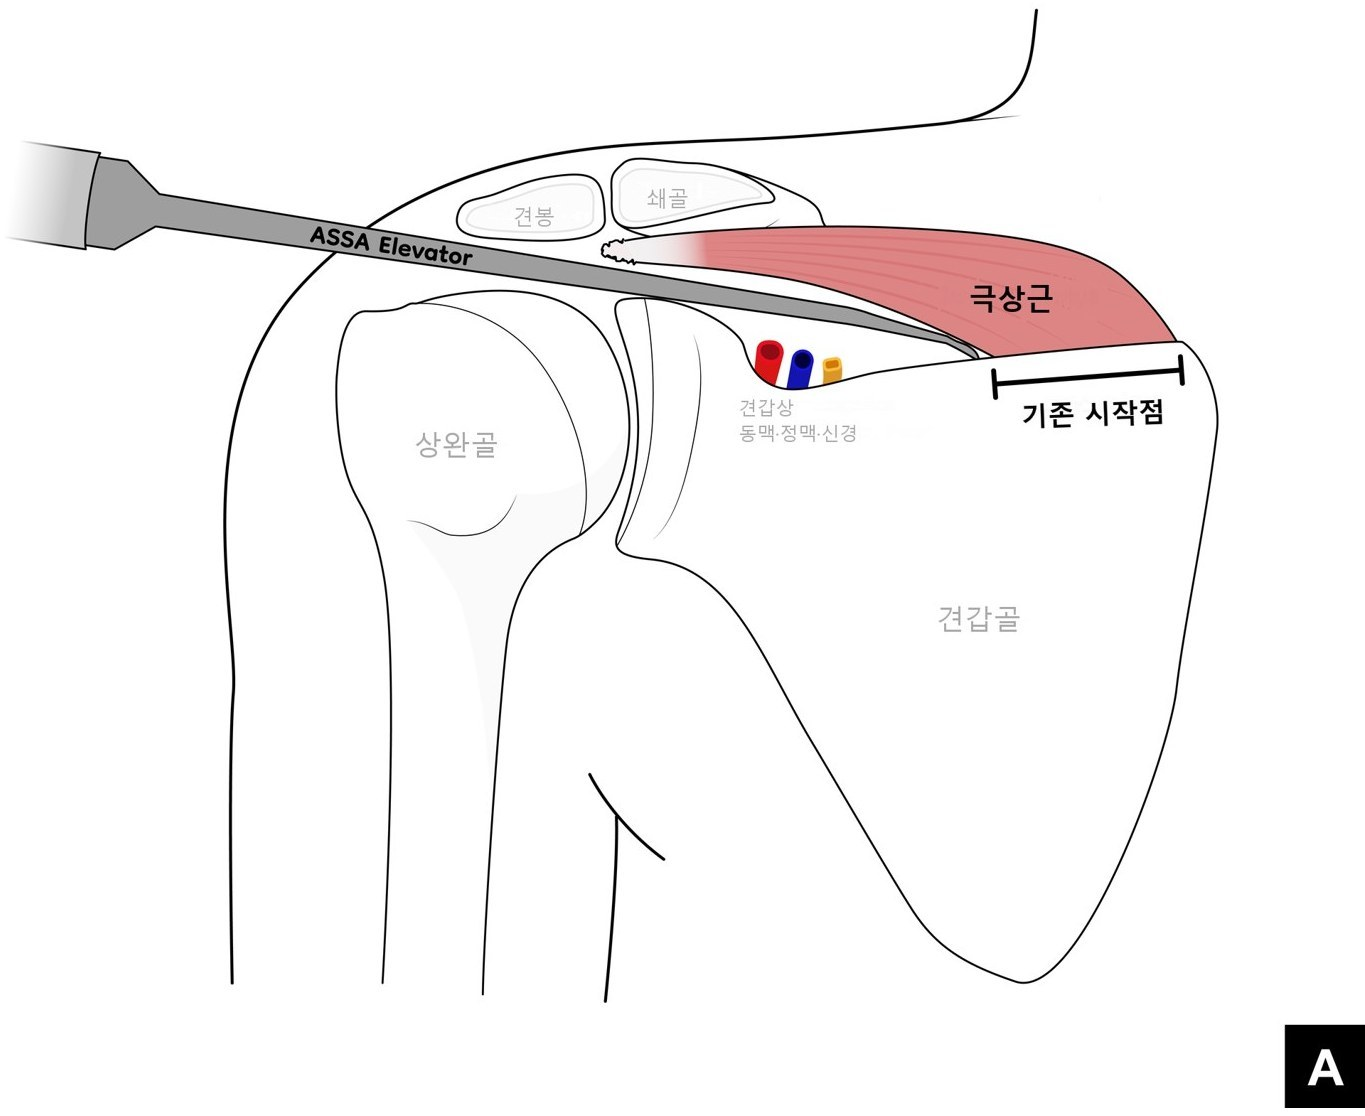
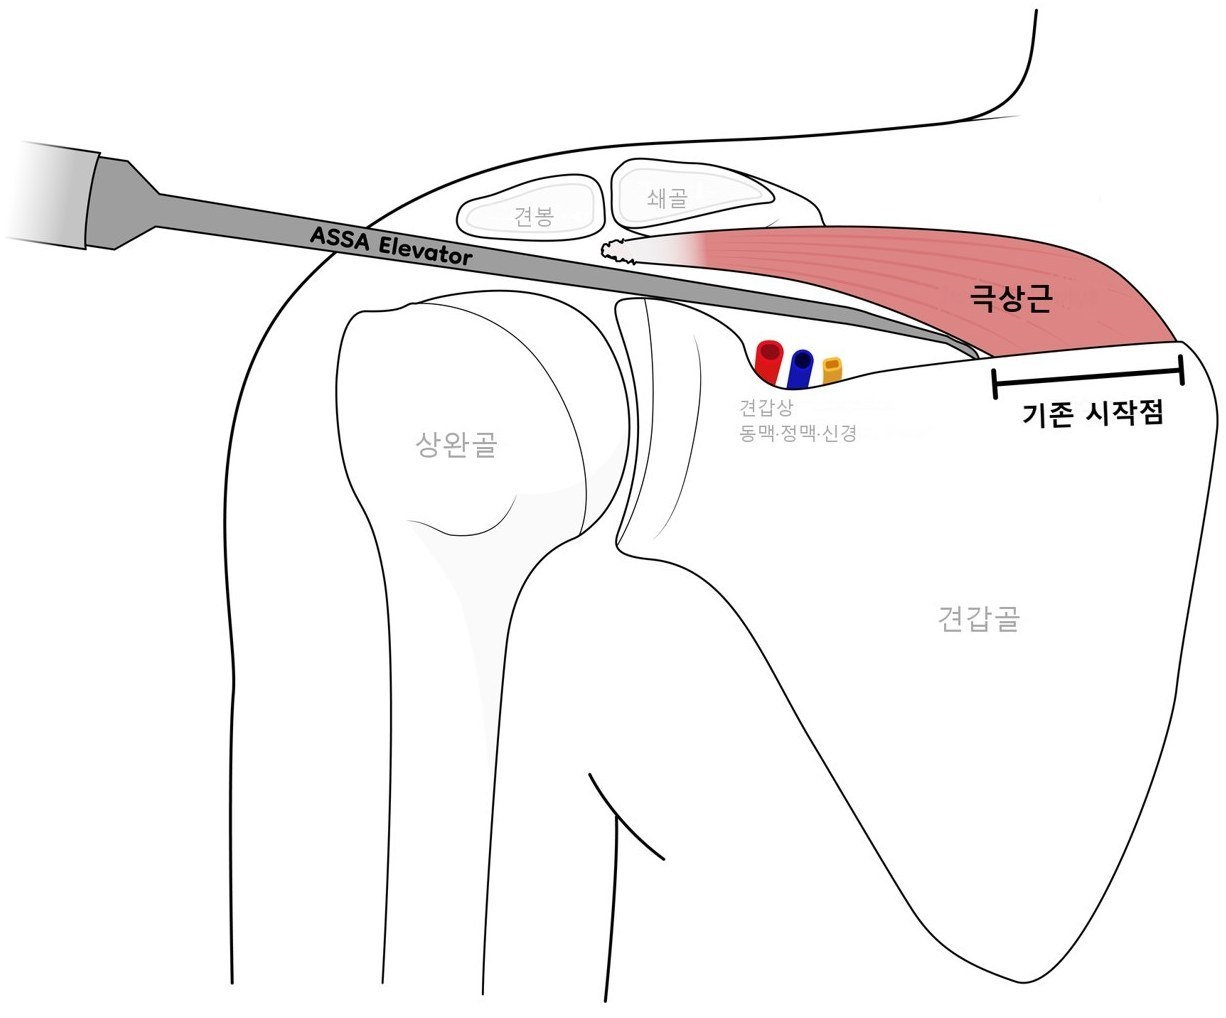
feat: ASSA 슬라이드 — A·B·C 버튼 박스 밖 우측 상단, 컷 안 검은 문자 박스 제거, 설명은 박스 안 그림 아래 녹색 큰 글씨

diff --git a/index.html b/index.html
@@ -57,13 +57,14 @@ tr:last-child td,tr:last-child th{border-bottom:0}
 .faq p{margin-top:8px;font-size:15px}
 footer{padding:24px 20px 40px;font-size:13px;color:var(--muted);text-align:center;border-top:1px solid var(--line);background:#fff}
 .btn{display:block;text-align:center;background:var(--navy);color:#fff;text-decoration:none;padding:14px;border-radius:12px;font-weight:600;margin-top:16px}
-.assa{position:relative}
-.assa .slides{display:grid;background:#fff;border:1px solid var(--line);border-radius:14px;padding:3px;touch-action:pan-y}
-.assa .slides img{grid-area:1/1;width:100%;height:auto;display:block;border-radius:8px;opacity:0;transition:opacity .6s ease}
-.assa .slides img.on{opacity:1}
-.assa .dots{position:absolute;top:10px;right:10px;display:flex;gap:6px;z-index:2}
-.assa .dots button{width:28px;height:28px;border-radius:50%;border:1px solid var(--line);background:rgba(255,255,255,.92);color:var(--muted);font-weight:700;font-size:13px;padding:0;cursor:pointer}
+.assa .dots{display:flex;justify-content:flex-end;gap:6px;margin-bottom:8px}
+.assa .dots button{width:30px;height:30px;border-radius:50%;border:1px solid var(--line);background:#fff;color:var(--muted);font-weight:700;font-size:13px;padding:0;cursor:pointer}
 .assa .dots button.on{background:var(--teal);border-color:var(--teal);color:#fff}
+.assa .box{background:#fff;border:1px solid var(--line);border-radius:14px;padding:3px}
+.assa .slides{display:grid;touch-action:pan-y}
+.assa .slides img{grid-area:1/1;width:100%;height:auto;display:block;border-radius:10px;opacity:0;transition:opacity .6s ease}
+.assa .slides img.on{opacity:1}
+.assa figcaption{font-size:18px;font-weight:600;color:var(--teal);text-align:left;line-height:1.5;padding:10px 12px 9px;margin:0}
 @media(prefers-reduced-motion:reduce){html{scroll-behavior:auto}.assa .slides img{transition:none}}
 </style>
 </head>
@@ -112,13 +113,15 @@ footer{padding:24px 20px 40px;font-size:13px;color:var(--muted);text-align:cente
   <h2>• 극상근 전진술 (ASSA)</h2>
   <p class="lead">힘줄을 억지로 잡아당기는 대신, <b>근육을 어깨뼈 바닥에서 통째로 들어 올려 앞으로 옮겨</b> 힘줄이 원래 자리에 닿게 하는 관절경 수술입니다.</p>
   <figure class="assa">
-    <div class="slides" id="assaSlides">
-      <img src="img/assa-a.jpg" class="on" alt="A. 기존 외측 삽입구로 전용 기구를 넣는 그림" data-cap="A · 기존 외측 삽입구로 전용 기구를 넣습니다 (추가 절개 불필요)">
-      <img src="img/assa-b.jpg" alt="B. 전용 기구가 극상근을 날개뼈 부착점에서 들어 올리는 그림" data-cap="B · 전용 기구로 극상근을 부착점에서 부드럽게 들어 올립니다">
-      <img src="img/assa-c.jpg" alt="C. 자유로워진 근육과 힘줄을 바깥쪽으로 옮긴 그림" data-cap="C · 자유로워진 근육과 힘줄을 바깥쪽으로 옮깁니다">
-    </div>
     <div class="dots" id="assaDots" role="tablist" aria-label="그림 단계"><button class="on" aria-label="A">A</button><button aria-label="B">B</button><button aria-label="C">C</button></div>
-    <figcaption id="assaCap">A · 기존 외측 삽입구로 전용 기구를 넣습니다 (추가 절개 불필요)</figcaption>
+    <div class="box">
+      <div class="slides" id="assaSlides">
+        <img src="img/assa-a.jpg" class="on" alt="A. 기존 외측 삽입구로 전용 기구를 넣는 그림" data-cap="A · 기존 외측 삽입구로 전용 기구를 넣습니다 (추가 절개 불필요)">
+        <img src="img/assa-b.jpg" alt="B. 전용 기구가 극상근을 날개뼈 부착점에서 들어 올리는 그림" data-cap="B · 전용 기구로 극상근을 부착점에서 부드럽게 들어 올립니다">
+        <img src="img/assa-c.jpg" alt="C. 자유로워진 근육과 힘줄을 바깥쪽으로 옮긴 그림" data-cap="C · 자유로워진 근육과 힘줄을 바깥쪽으로 옮깁니다">
+      </div>
+      <figcaption id="assaCap">A · 기존 외측 삽입구로 전용 기구를 넣습니다 (추가 절개 불필요)</figcaption>
+    </div>
   </figure>
   <h3>광범위 파열 봉합 후 재파열률</h3>
   <div class="hero">
